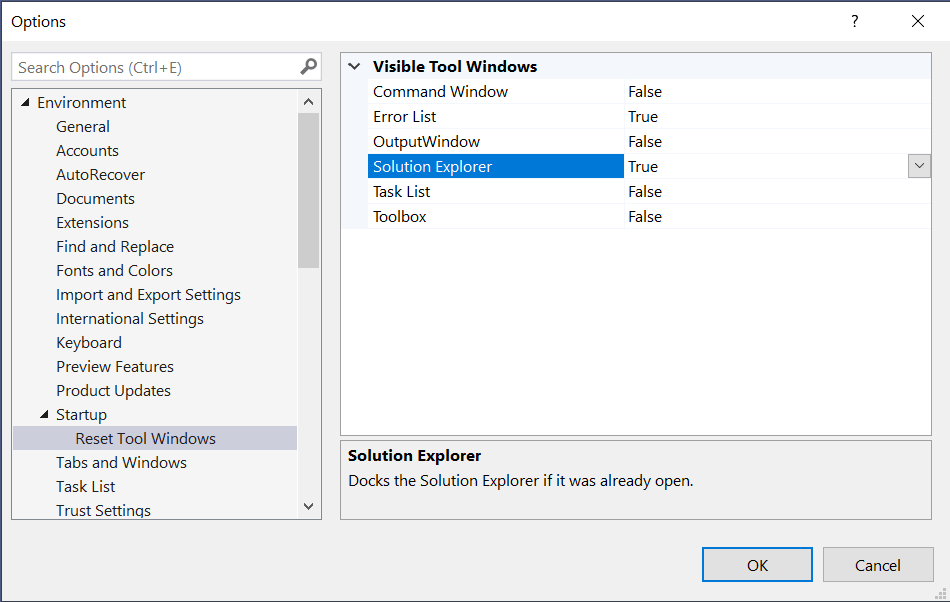
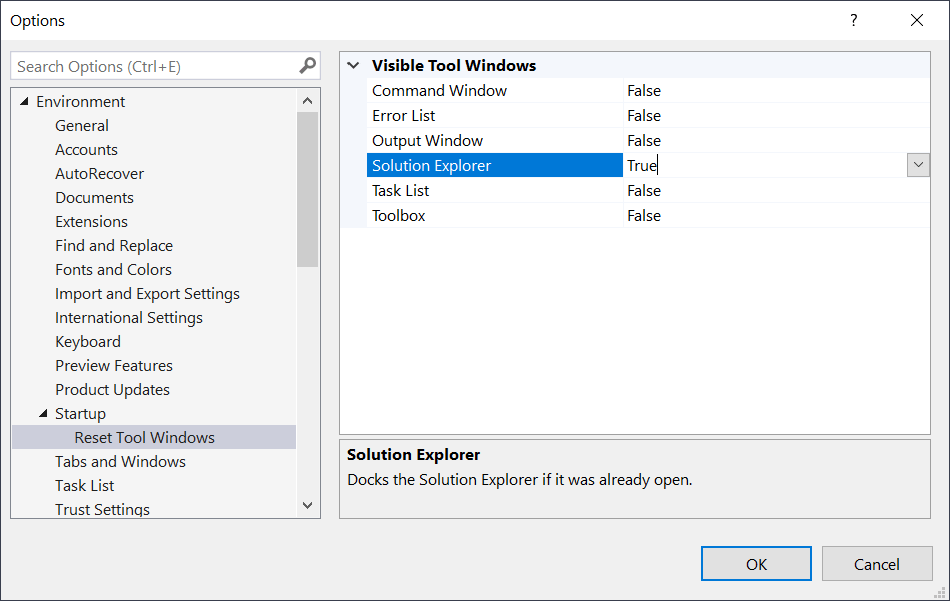
Changed defaults and updated readme

diff --git a/src/Options/GeneralOptions.cs b/src/Options/GeneralOptions.cs
@@ -13,8 +13,8 @@ namespace ResetToolWindows
         [Category("Visible Tool Windows")]
         [DisplayName("Error List")]
         [Description("Docks the Error List if it was already open.")]
-        [DefaultValue(true)]
-        public bool ShowErrorList { get; set; } = true;
+        [DefaultValue(false)]
+        public bool ShowErrorList { get; set; }
 
         [Category("Visible Tool Windows")]
         [DisplayName("Output Window")]

diff --git a/README.md b/README.md
@@ -22,6 +22,8 @@ Choose between:
 * Task List
 * Toolbox
 
+The fewer tool windows docked on startup, the better the performance. So, if all tool windows were un-docked (collapsed), you got zero negative performance impact from tool windows.
+
 ![Options](art/options.png)
 
 ## License
